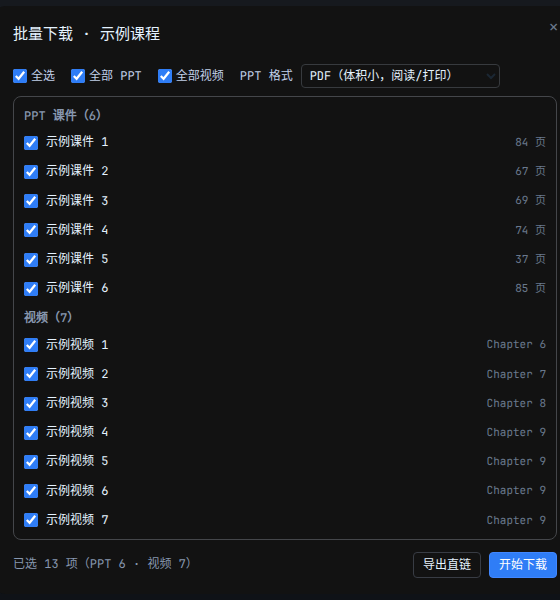
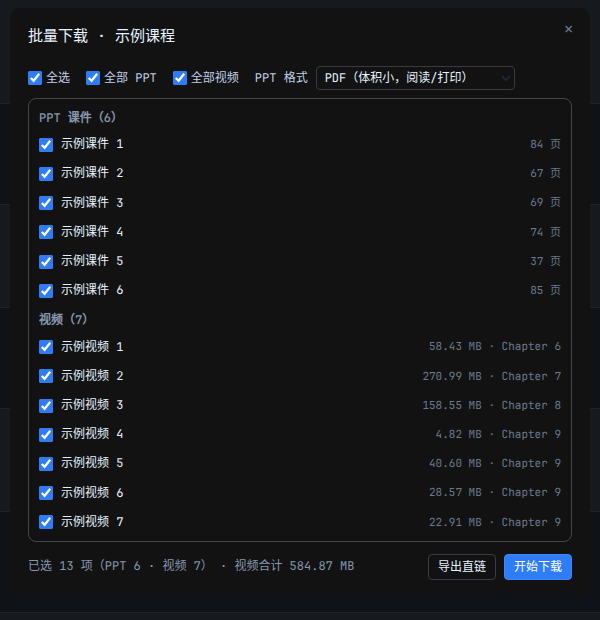
v2.6.0：工具栏只留「扫描课程 + 批量下载」，弹窗显示视频真实大小与合计；PPT 合并学习内容章节树

Changed region(s): [[0.0, 0.03, 1.0, 0.99], [0.8804, 0.21, 0.9714, 0.51], [0.9411, 0.03, 1.0, 0.06]]

diff --git a/changjiang-courseware-grabber.user.js b/changjiang-courseware-grabber.user.js
@@ -1,7 +1,7 @@
 // ==UserScript==
 // @name         长江雨课堂 课件抓取助手
 // @namespace    https://github.com/qzhengpyuan/changjiang-course-grabber
-// @version      2.5.1
+// @version      2.6.0
 // @icon         https://cdn.jsdelivr.net/gh/qzhengpyuan/changjiang-course-grabber@main/assets/icon-64.png
 // @icon64       https://cdn.jsdelivr.net/gh/qzhengpyuan/changjiang-course-grabber@main/assets/icon-128.png
 // @homepageURL  https://github.com/qzhengpyuan/changjiang-course-grabber
@@ -1078,9 +1078,6 @@
     batchButton.addEventListener("click", () => openDownloadDialog(doc));
     toolbar.appendChild(batchButton);
 
-    const linkButton = createButton(doc, "视频直链清单", "cjyk-btn-secondary");
-    linkButton.addEventListener("click", () => handleVideoList(doc, linkButton));
-    toolbar.appendChild(linkButton);
 
     if (anchor === doc.body) {
       toolbar.style.position = "fixed";
@@ -1351,91 +1348,6 @@
     return `${now.getFullYear()}${pad(now.getMonth() + 1)}${pad(now.getDate())}-${pad(now.getHours())}${pad(now.getMinutes())}`;
   }
 
-  // 批量：先把整门课的所有课件都生成好，最后**打包成一个 zip 下载一次**。
-  // 这样既不会触发浏览器的「一次点击多个下载」限制，也符合参考项目（学习通抓取助手）的做法。
-  async function handleBatch(doc, mode, button) {
-    if (state.busy) {
-      showToast(doc, "已有任务在进行中", "error");
-      return;
-    }
-    const restore = setButtonBusy(button, "准备中");
-    const label = MODE_LABEL[mode] || "PDF";
-    const panel = createProgressPanel(doc, `全课 PPT → ${label}（打包）`);
-    const reporter = createProgressReporter(button, panel);
-    const used = new Set();
-    try {
-      await ensureActivities(doc, reporter);
-      const list = pptActivities();
-      if (!list.length) {
-        showToast(doc, "本课没有 PPT 课件", "error");
-        return;
-      }
-
-      const entries = [];
-      let ok = 0;
-      for (let index = 0; index < list.length; index += 1) {
-        const activity = list[index];
-        const safeTitle = sanitizeFileName(activity.title) || `课件${index + 1}`;
-        reporter({ stage: `(${index + 1}/${list.length}) ${activity.title}`, current: index, total: list.length, detail: "" });
-        try {
-          const { pages, meta } = await collectSlides(activity, (progress) => {
-            reporter({
-              stage: `(${index + 1}/${list.length}) ${activity.title}`,
-              current: progress.current,
-              total: progress.total,
-              detail: progress.detail,
-            });
-          });
-          if (mode === "zip") {
-            // 图片模式：把所有课件的逐页图片放进同一个 zip 的不同目录
-            for (const page of pages) {
-              entries.push({
-                path: `${safeTitle}/${String(page.pageIndex).padStart(3, "0")}.jpg`,
-                data: new Uint8Array(page.buffer),
-              });
-            }
-          } else {
-            const { blob } = await buildPptOutput(activity, pages, meta, mode, null);
-            entries.push({
-              path: `${safeTitle}.${mode === "pptx" ? "pptx" : "pdf"}`,
-              data: new Uint8Array(await blob.arrayBuffer()),
-            });
-          }
-          ok += 1;
-          reporter({ stage: `(${index + 1}/${list.length}) 完成`, current: index + 1, total: list.length, detail: `${safeTitle} · ${pages.length} 页` });
-        } catch (error) {
-          reporter({ stage: `(${index + 1}/${list.length}) 跳过`, current: index + 1, total: list.length, detail: error.message });
-        }
-      }
-
-      if (!entries.length) throw new Error("没有生成任何文件");
-
-      reporter({ stage: "打包压缩包", current: 0, total: entries.length, detail: `${entries.length} 个文件` });
-      const zipBlob = await createStoredZipBlob(entries, (current, total, detail) => {
-        reporter({ stage: "打包压缩包", current, total, detail });
-      });
-      const filename = makeUniqueFileName(
-        `${sanitizeFileName(currentCourseTitle())}_${label}_${timestampForName()}.zip`,
-        used
-      );
-      triggerBlobDownload(doc, zipBlob, filename);
-      reporter({ stage: "已下载", current: entries.length, total: entries.length, detail: `${filename} ${formatBytes(zipBlob.size)}` });
-      showToast(
-        doc,
-        `已打包 ${ok}/${list.length} 个课件 → ${filename}（${formatBytes(zipBlob.size)}）`,
-        ok === list.length ? "success" : "info",
-        6000
-      );
-      panel.close(8000);
-    } catch (error) {
-      reporter({ stage: "失败", current: 0, total: 0, detail: error.message });
-      showToast(doc, `失败：${error.message}`, "error", 5000);
-    } finally {
-      state.busy = false;
-      restore();
-    }
-  }
-
   /* ------------------------------------------------------------------ */
   /* 视频                                                                */
   /* ------------------------------------------------------------------ */
@@ -1590,95 +1502,6 @@
     }
   }
 
-  // 整门课的视频逐个下载（学习内容章节树为准，日志兜底）
-  async function handleAllVideos(doc, button) {
-    if (state.busy) {
-      showToast(doc, "已有任务在进行中", "error");
-      return;
-    }
-    const restore = setButtonBusy(button, "准备中");
-    const panel = createProgressPanel(doc, "全课视频 → MP4");
-    const reporter = createProgressReporter(button, panel);
-    const used = new Set();
-    try {
-      let list = [];
-      try {
-        const leaves = await ensureChapterLeaves(reporter);
-        list = leaves.filter((leaf) => leaf.leaf_type === 0 && leaf.id);
-      } catch (error) {
-        console.warn(`[${APP}] 章节树读取失败，退回学习日志`, error);
-      }
-      if (!list.length) {
-        await ensureActivities(doc, reporter);
-        list = videoActivities().map((activity) => ({
-          name: activity.title,
-          id: activity.content && activity.content.leaf_id,
-        }));
-      }
-      if (!list.length) {
-        showToast(doc, "本课没有视频", "error");
-        return;
-      }
-
-      const jobs = [];
-      let totalBytes = 0;
-      for (let index = 0; index < list.length; index += 1) {
-        const leaf = list[index];
-        const name = leaf.name;
-        const leafId = leaf.id;
-        reporter({ stage: `(${index + 1}/${list.length}) 解析 ${name}`, current: index, total: list.length, detail: "" });
-        try {
-          const info = await fetchVideoInfo(leafId);
-          if (!info.ccid) throw new Error("未取到视频 ID");
-          const urls = await fetchVideoUrls(info.ccid);
-          if (!urls.primary) throw new Error("没有可用直链");
-          jobs.push({ name: info.name || name, url: urls.primary, size: info.size || 0 });
-          totalBytes += info.size || 0;
-        } catch (error) {
-          console.warn(`[${APP}] ${name} 解析失败`, error);
-        }
-      }
-      if (!jobs.length) throw new Error("没有可下载的视频");
-
-      const ok = new Set();
-      for (let index = 0; index < jobs.length; index += 1) {
-        const job = jobs[index];
-        const filename = makeUniqueFileName(`${sanitizeFileName(job.name)}.mp4`, used);
-        reporter({
-          stage: `(${index + 1}/${jobs.length}) ${job.name}`,
-          current: index,
-          total: jobs.length,
-          detail: `${formatBytes(job.size)} · 共 ${formatBytes(totalBytes)}`,
-        });
-        try {
-          await downloadVideoFile(job.url, filename, job.size, (progress) => {
-            const loaded = (progress && progress.loaded) || 0;
-            const total = (progress && progress.total) || job.size || 0;
-            reporter({
-              stage: `(${index + 1}/${jobs.length}) ${job.name}`,
-              current: index,
-              total: jobs.length,
-              detail: `${formatBytes(loaded)} / ${formatBytes(total)}`,
-            });
-          });
-          ok.add(job.name);
-          reporter({ stage: `(${index + 1}/${jobs.length}) 完成`, current: index + 1, total: jobs.length, detail: filename });
-        } catch (error) {
-          reporter({ stage: `(${index + 1}/${jobs.length}) 失败`, current: index + 1, total: jobs.length, detail: error.message });
-        }
-        await sleep(500);
-      }
-      showToast(doc, `视频下载：${ok.size}/${jobs.length}（共 ${formatBytes(totalBytes)}）`, ok.size === jobs.length ? "success" : "info", 6000);
-      panel.close(6000);
-    } catch (error) {
-      reporter({ stage: "失败", current: 0, total: 0, detail: error.message });
-      showToast(doc, `失败：${error.message}`, "error", 5000);
-    } finally {
-      state.busy = false;
-      restore();
-    }
-  }
-
   /* ------------------------------------------------------------------ */
   /* 扫描                                                                */
   /* ------------------------------------------------------------------ */
@@ -1770,16 +1593,63 @@
     { id: "pptx", label: "PPTX（图片版，可放映/批注）" },
   ];
 
-  // 汇总「可下载的东西」：学习日志里的 PPT + 学习内容章节树里的视频（日志兜底）
+  // 用 HEAD 拿真实文件大小（CDN 带 ACAO:*，GM_xmlhttpRequest 不受跨域限制）
+  function fetchHeadSize(url) {
+    return new Promise((resolve) => {
+      if (typeof GM_xmlhttpRequest !== "function") {
+        resolve(null);
+        return;
+      }
+      try {
+        GM_xmlhttpRequest({
+          method: "HEAD",
+          url,
+          timeout: 15000,
+          onload: (response) => {
+            const match = /content-length:\s*(\d+)/i.exec(response.responseHeaders || "");
+            resolve(match ? Number(match[1]) : null);
+          },
+          onerror: () => resolve(null),
+          ontimeout: () => resolve(null),
+        });
+      } catch (error) {
+        resolve(null);
+      }
+    });
+  }
+
+  // 视频真实大小：leaf_info 拿 ccid → playurl 拿直链 → HEAD 取 content-length
+  async function resolveVideoSize(leafId) {
+    try {
+      const info = await fetchVideoInfo(leafId);
+      let size = 0;
+      if (info.ccid) {
+        const urls = await fetchVideoUrls(info.ccid);
+        if (urls.primary) size = (await fetchHeadSize(urls.primary)) || 0;
+      }
+      return { size: size || info.size || 0, approx: !size };
+    } catch (error) {
+      return { size: 0, approx: true };
+    }
+  }
+
+  // 汇总「可下载的东西」：学习日志里的 PPT + 学习内容章节树里的 PPT 与视频
+  // 章节树里的 PPT 只有 leaf id，真正下载要用的 courseware_id 在 leaf_info.content_info.leaf_type_id
   async function collectDownloadItems(reporter) {
     const ppts = [];
     const videos = [];
+    const seenPpt = new Set();
+    const titles = new Set();
     try {
       await ensureActivities(null, reporter);
       for (const activity of pptActivities()) {
+        const id = String(activity.courseware_id);
+        if (seenPpt.has(id)) continue;
+        seenPpt.add(id);
+        titles.add((activity.title || "").trim());
         ppts.push({
           kind: "ppt",
-          id: String(activity.courseware_id),
+          id,
           title: activity.title,
           meta: activity.count ? `${activity.count} 页` : "PPT 课件",
         });
@@ -1789,6 +1659,27 @@
     }
     try {
       const leaves = await ensureChapterLeaves(reporter);
+      // 章节树里日志没列到的 PPT（学习内容独有的那些）
+      const extraPptLeaves = leaves.filter(
+        (leaf) => leaf.leaf_type === 7 && leaf.id && !titles.has((leaf.name || "").trim())
+      );
+      for (const leaf of extraPptLeaves) {
+        try {
+          const data = await fetchJson(`/mooc-api/v1/lms/learn/leaf_info/${classroomId}/${leaf.id}/?classroom_id=${classroomId}`);
+          const content = (data.data && data.data.content_info) || {};
+          const coursewareId = content.leaf_type_id ? String(content.leaf_type_id) : "";
+          if (!coursewareId || seenPpt.has(coursewareId)) continue;
+          seenPpt.add(coursewareId);
+          ppts.push({
+            kind: "ppt",
+            id: coursewareId,
+            title: leaf.name,
+            meta: leaf.chapter || "PPT 课件",
+          });
+        } catch (error) {
+          console.warn(`[${APP}] ${leaf.name} 读取失败`, error);
+        }
+      }
       for (const leaf of leaves) {
         if (leaf.leaf_type === 0 && leaf.id) {
           videos.push({ kind: "video", id: String(leaf.id), title: leaf.name, meta: leaf.chapter || "视频" });
@@ -1895,12 +1786,17 @@
     const summary = backdrop.querySelector('[data-role="summary"]');
     const startButton = backdrop.querySelector('[data-role="start"]');
 
+    const videoSizes = new Map();
     const sync = () => {
       const selected = boxes().filter((box) => box.checked);
       const pptSelected = selected.filter((box) => box.dataset.kind === "ppt").length;
       const videoSelected = selected.length - pptSelected;
+      const videoBytes = selected
+        .filter((box) => box.dataset.kind === "video")
+        .reduce((sum, box) => sum + (videoSizes.get(box.dataset.id) || 0), 0);
+      const sizeText = videoBytes ? ` · 视频合计 ${formatBytes(videoBytes)}` : "";
       summary.textContent = selected.length
-        ? `已选 ${selected.length} 项（PPT ${pptSelected} · 视频 ${videoSelected}）`
+        ? `已选 ${selected.length} 项（PPT ${pptSelected} · 视频 ${videoSelected}）${sizeText}`
         : "未选择";
       startButton.disabled = selected.length === 0;
       const pptBoxes = boxesOf("ppt");
@@ -1948,6 +1844,22 @@
     sync();
     dialogOpening = false;
     delete doc.documentElement.dataset.cjykDialog;
+
+    // 后台把每个视频的真实大小补到行尾（并发 3 个，不阻塞弹窗出现）
+    const pending = boxesOf("video").slice();
+    Array.from({ length: Math.min(3, pending.length) }, async () => {
+      while (pending.length) {
+        const box = pending.shift();
+        const row = box.closest(".cjyk-dl-row");
+        const metaNode = row && row.querySelector(".cjyk-dl-meta");
+        const base = metaNode ? metaNode.textContent : "";
+        const { size, approx } = await resolveVideoSize(box.dataset.id);
+        if (!size) continue;
+        videoSizes.set(box.dataset.id, size);
+        if (metaNode) metaNode.textContent = `${approx ? "≈" : ""}${formatBytes(size)} · ${base}`;
+        sync();
+      }
+    });
   }
 
   // 按对话框里勾选的结果执行：PPT 先全部生成再打一个包，视频逐个下载

diff --git a/README.md b/README.md
@@ -20,13 +20,12 @@ PPT 课件和视频保存到本地：整门课一键导出为 **PDF**、**图片
 | 位置 | 按钮 | 作用 |
 | --- | --- | --- |
 | 顶部工具栏 | 扫描课程 | 拉取课程日志 + 学习内容章节树，统计 PPT / 视频数量（并说明多出来的视频来自哪），把按钮挂到对应卡片上 |
-| 顶部工具栏 | **批量下载** | 弹出勾选面板：列出全部 PPT 与视频，逐条打勾；可选「全选 / 全部 PPT / 全部视频」，PPT 还能选输出格式；确认后一次跑完 |
-| 顶部工具栏 | 视频直链清单 | 导出全部视频的 MP4 直链（含两种清晰度）为 txt，可交给 aria2 / 下载器 |
+| 顶部工具栏 | **批量下载** | 弹出勾选面板：列出全部 PPT 与视频（视频带真实大小），逐条打勾；可选「全选 / 全部 PPT / 全部视频」，PPT 还能选输出格式；确认后一次跑完 |
 | 课件卡片 | PDF / 图片ZIP / PPTX | 单个课件导出 |
 | 视频卡片 | 视频 / 直链 | 下载该视频 MP4 / 复制直链到剪贴板 |
 | 视频页（右下角） | 下载 MP4 | 在学习空间视频页直接下载当前视频 |
 
-批量下载面板长这样（勾选要下的条目，PPT 格式在右上角下拉框里选）：
+批量下载面板长这样（勾选要下的条目，视频行尾是真实文件大小，底部实时汇总已选视频总量；PPT 格式在右上角下拉框里选）：
 
 ![批量下载面板](https://cdn.jsdelivr.net/gh/qzhengpyuan/changjiang-course-grabber@main/docs/images/dialog-batch.png)
 
@@ -79,13 +78,22 @@ PPT 课件和视频保存到本地：整门课一键导出为 **PDF**、**图片
 1. 打开课程「学习日志」页，等工具栏出现；
 2. 点 **批量下载** 弹出面板：
    - 上面一排：`全选` / `全部 PPT` / `全部视频`，勾选会联动的（部分选中显示为半选）；
-   - 中间列表：PPT 课件（带页数）和视频（带所属章节），每条左边有复选框，想下哪个勾哪个；
+   - 中间列表：PPT 课件（带页数）和视频（带真实大小 + 所属章节），每条左边有复选框，想下哪个勾哪个；
    - `PPT 格式` 下拉：PDF / ZIP（逐页图片）/ PPTX（图片版）；
-   - 右下角 **开始下载**；**导出直链** 则是把视频直链导成 txt；
+   - 右下角 **开始下载**；**导出直链** 把视频直链导成 txt（原来工具栏上的「视频直链清单」已经收进这里）；
+   - 底部汇总会写 `已选 13 项（PPT 6 · 视频 7） · 视频合计 584.87 MB`；
 3. 执行规则：选中的 PPT 先全部生成，**最后打包成一个 ZIP 下载一次**（只选了一个 PPT 时直接下那个文件，不套 ZIP）；
    选中的视频按章节顺序逐个下载成 MP4；
 4. 只想要某一份，也可以直接点那一行卡片上的小按钮；
 5. 文件落在浏览器默认下载目录（Chrome/Edge 一般是 `~/Downloads`）。
+
+### 面板里的条目从哪来
+
+| 类型 | 来源 | 说明 |
+| --- | --- | --- |
+| PPT 课件 | 学习日志 + 学习内容章节树 | 两路合并去重；章节树里日志没列到的 PPT 也会出现（`leaf_info.content_info.leaf_type_id` 就是下载要用的 `courseware_id`） |
+| 视频 | 学习内容章节树 | 日志里只列了一部分，章节树才是全集（实测 3 vs 7） |
+| 作业 / 课堂 | 不列 | 作业是提交型没有附件；课堂（直播回放）学生端 `/v2/web/playback` 跳 `forbidden`，`leaf_info` 里 `media` 为空，拿不到 |
 
 > 为什么日志里只有 3 个视频、批量下载却列出了 7 个？
 > 「学习日志」只列出老师发布到日志流里的活动；「学习内容」是按章节组织的完整课程树，
